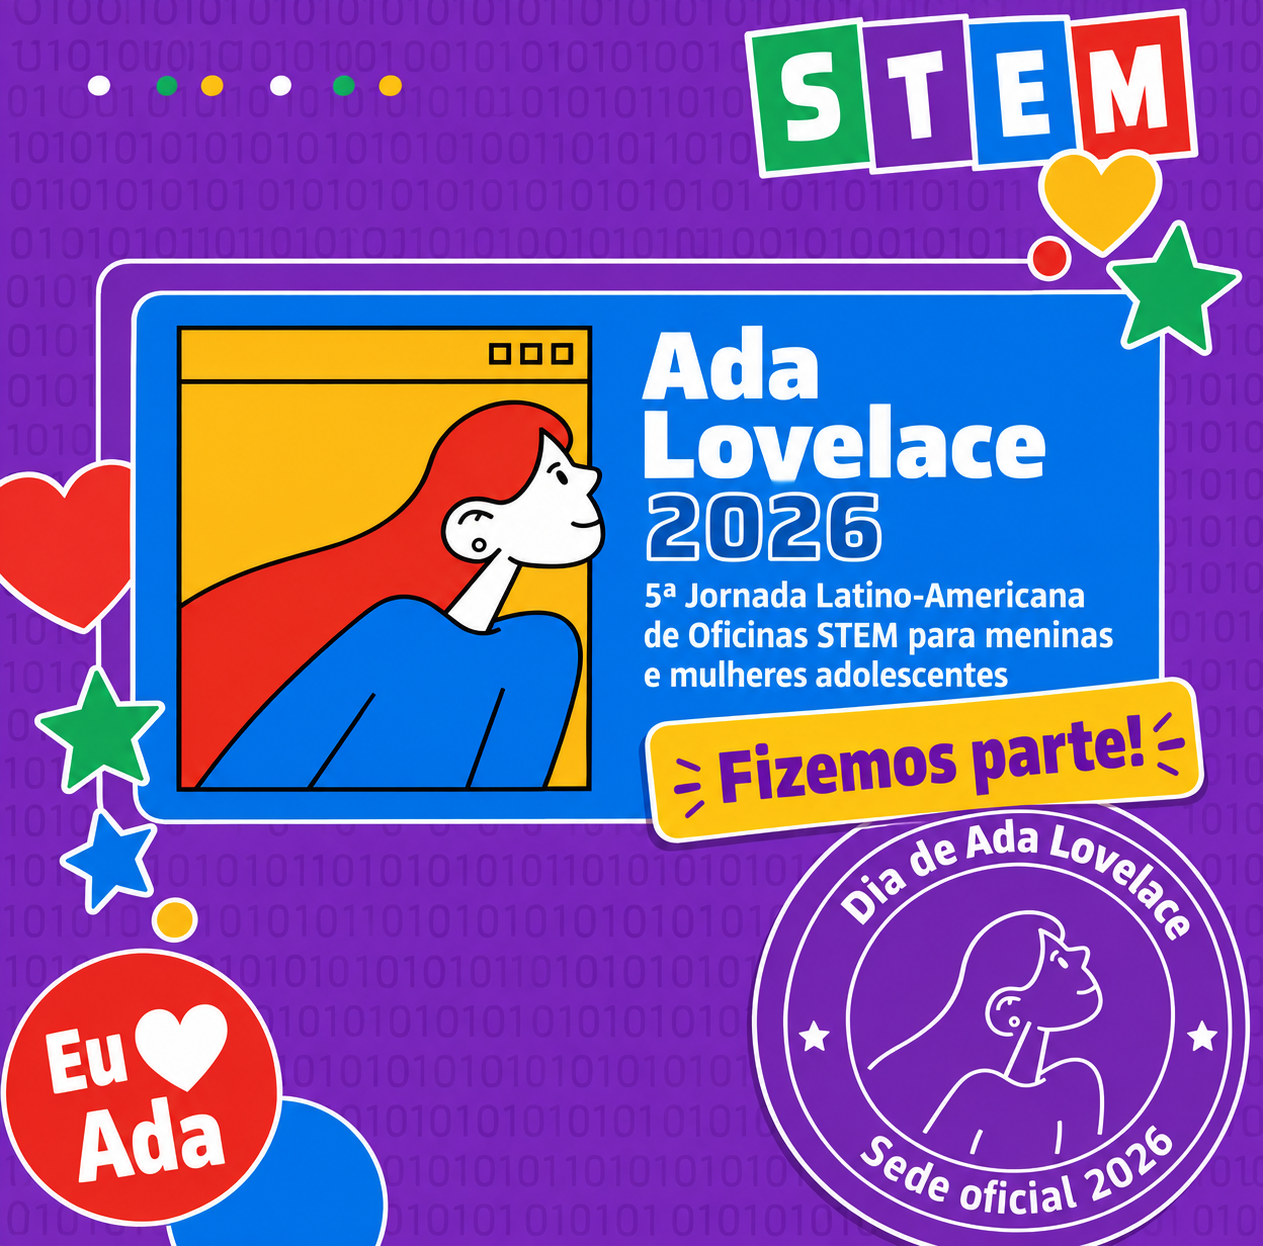
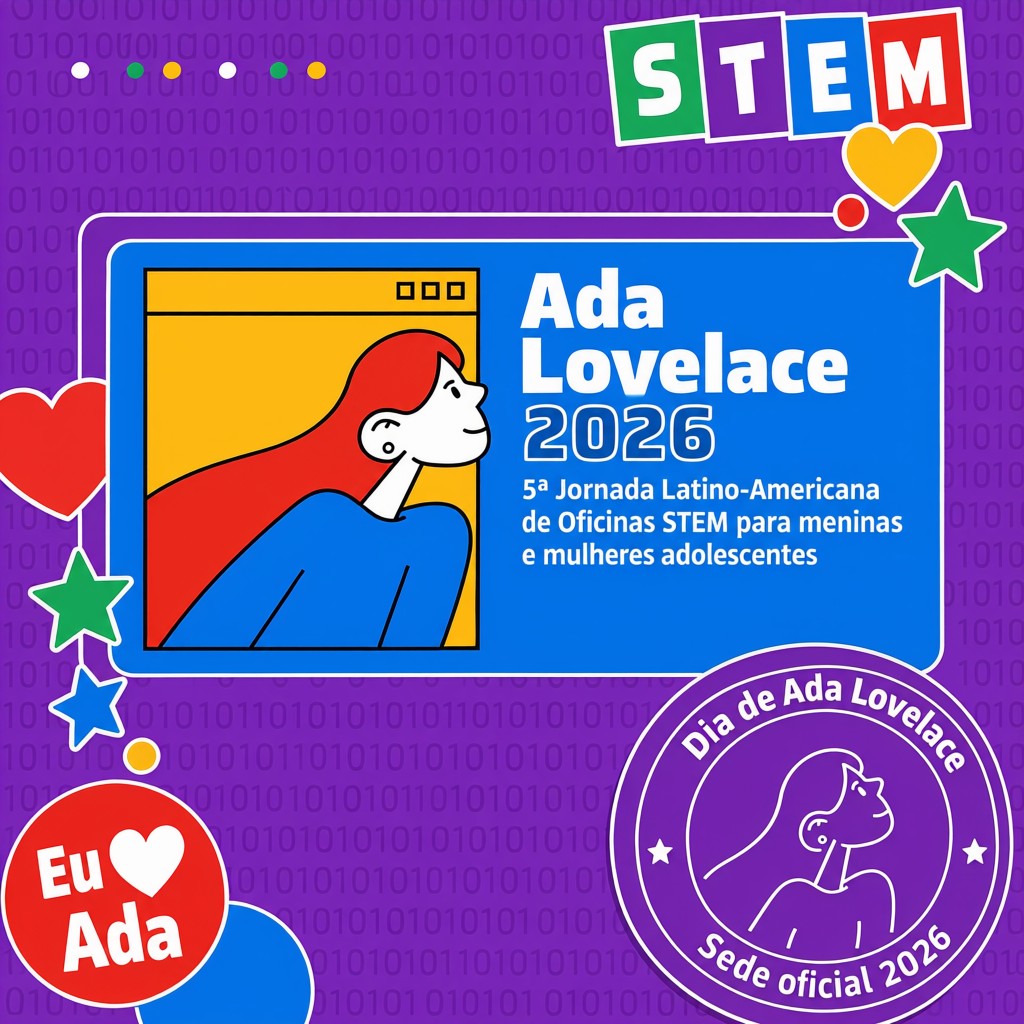
adicionadas fotos no carrossel, mudanças em links

diff --git a/components/config.js b/components/config.js
@@ -62,7 +62,8 @@
       { nome: 'FGV EMAp', img: 'images/logo-fgv.png', url: 'https://emap.fgv.br/' },
       { nome: 'SBMAC', img: 'images/logo-sbmac.png', url: 'https://www.sbmac.org.br/' },
       { nome: 'SEGLABS', img: 'images/logo-seglabs.png', url: 'https://seglabs.io'},
-     // { nome: 'Apoiador 4', img: '', url: '#' }
+      { nome: 'Dassault Systèmes', img: 'images/logo-dessault.png', url: 'https://www.3ds.com/' }
+     // { nome: 'Apoiador tal', img: '', url: '#' }
     ],
 
     organizacao: {
@@ -75,14 +76,18 @@
     },
 
     membros: [
-      { nome: '[Nome Sobrenome]', funcao: 'Coordenação', curso: '[Curso / Departamento]' },
-      { nome: '[Nome Sobrenome]', funcao: 'Oficineira', curso: '[Curso]' },
-      { nome: '[Nome Sobrenome]', funcao: 'Oficineiro', curso: '[Curso]' },
-      { nome: '[Nome Sobrenome]', funcao: 'Comunicação', curso: '[Curso]' },
-      { nome: '[Nome Sobrenome]', funcao: 'Oficineira', curso: '[Curso]' },
-      { nome: '[Nome Sobrenome]', funcao: 'Design', curso: '[Curso]' },
-      { nome: '[Nome Sobrenome]', funcao: 'Oficineiro', curso: '[Curso]' },
-      { nome: '[Nome Sobrenome]', funcao: 'Apoio', curso: '[Curso]' }
+      { nome: 'Grasiele Jorge',   img: 'images/grasi_jorge.jpeg',      funcao: 'Coordenação', curso: 'Professora de matemática, apaixonada por gatos, bike, trilhas e natureza' },
+      { nome: 'Cláudia Aline',    img: 'images/claudia_aline.jpeg',    funcao: 'Coordenação', curso: 'Professora de matemática, ama dançar e conhecer novos sabores' },
+      { nome: 'Maíra Matos',      img: 'images/maira_matos.jpeg',      funcao: 'Professora Apoiadora', curso: '[curso / departamento]' },
+      { nome: 'Noelma Santos',    img: 'images/noelma.jpeg',           funcao: 'Professora Apoiadora', curso: 'Pedagoga, e nas horas vagas aprendo a cuidar de suculentas e orquídeas!' },
+      { nome: 'Camila de Morais', img: 'images/camila_de_morais.jpeg', funcao: 'Professora Apoiadora', curso: 'professora de ciencias e da arte da investigacao ama series policiais e rock n roll' },
+      { nome: 'Leonardo',         img: 'images/leonardo.jpeg',         funcao: 'Professor Apoiador', curso: 'Leonardo, professor de Matemática e fã de comédia' },
+      { nome: 'Clara Yumi',       img: 'images/clara.jpeg',            funcao: 'Monitora e Dev do Site', curso: 'Estudante de matemática computacional e dançarina que ama gatos' },
+      { nome: 'Malu Balbo',       img: 'images/malu.jpeg',             funcao: 'Monitora', curso: 'estudante de ciência e tecnologia que adora filmes' },
+      { nome: 'Ellen Yukie',      img: 'images/ellen.jpeg',            funcao: 'Monitora', curso: 'Estudante do Bacharelado Interdisciplinar de Ciência e Tecnologia, que gosta de quebra-cabeças e jogos online.' },
+      { nome: 'Heloíse Martinez', img: 'images/helo.jpeg',             funcao: 'Monitora', curso: 'Estudante de engenharia de computação e entusiasta de aquarismo e dígitos de pi' },
+      { nome: 'Juliana Sene',     img: 'images/juliana.jpeg',          funcao: 'Monitora', curso: 'Profissional de Finanças, estudante de matemática. Gosto de pintura e micronacionalismo' },
+      { nome: 'Vitor Soares',     img: 'images/vitor_soares.jpeg',     funcao: 'Dev do Site', curso: 'Desenvolvedor, entusiasta de matemática e segurança da informação' }
     ],
 
         // CRÉDITOS DO SITE (rodapé): nome e link do LinkedIn de quem desenvolveu

diff --git a/pages/quem-somos.html b/pages/quem-somos.html
@@ -39,13 +39,12 @@ Em São José dos Campos, esta será a primeira realização da Jornada, tendo c
         <div class="bloco__texto">
           <h2>Nossa participação na Jornada</h2>
           <p>O Ada Lovelace Day: 5ª Jornada Latino-Americana de Oficinas STEM para Meninas é um evento de alcance latino-americano que busca incentivar a participação de meninas nas áreas de Ciência, Tecnologia, Engenharia e Matemática (STEM). Em 2026, a UNIFESP participa como uma das instituições organizadoras, contribuindo para ampliar o acesso, a representatividade e o interesse de meninas pela ciência e pela tecnologia.</p>
-          <div class="botoes"><a class="botao botao--vermelho" data-link="ada" href="#">Conheça a Jornada ↗</a></div>
         </div>
         <div class="bloco__midia"><img src="../images/sede-unifesp.webp" alt="Sede da UNIFESP" style="position: relative; z-index: 20; display: block; width: 100%; height: auto; object-fit: contain;"></div>
       </div>
     </section>
 
-    <carrossel-membros titulo="Nossa equipe" texto="[Frase curta sobre a equipe.]"></carrossel-membros>
+    <carrossel-membros titulo="Nossa equipe" texto="Quem faz o evento acontecer"></carrossel-membros>
 
     <section class="secao secao--roxo secao--binario">
       <div class="container" style="text-align:center">
@@ -53,7 +52,6 @@ Em São José dos Campos, esta será a primeira realização da Jornada, tendo c
         <p class="lead" style="margin-inline:auto">Inscreva sua menina na sede da Unifesp.</p>
         <div class="botoes" style="justify-content:center">
           <a class="botao botao--vermelho botao--grande" href="formulario.html">Inscreva-se</a>
-          <a class="botao botao--branco botao--grande" data-link="ada" href="#">Site oficial da Jornada ↗</a>
         </div>
       </div>
     </section>

diff --git a/index.html b/index.html
@@ -17,11 +17,10 @@
     <section class="hero">
       <div class="container hero__grid">
         <div>
-          <h1>Meninas que descobrem a <span class="marca-texto">ciência e a tecnologia</span> brincando.</h1>
+          <h1>Conheça o Ada Lovelace Day</h1>
           <p class="lead">Uma manhã de oficinas STEM para meninas de 10 a 12 anos, dentro da Jornada Ada Lovelace Day, organizada pela Unifesp.</p>
           <div class="botoes">
             <a class="botao botao--vermelho botao--grande" href="pages/formulario.html">Inscreva-se</a>
-            <a class="botao botao--roxo botao--grande" data-link="ada" href="#">Site oficial da Jornada ↗</a>
           </div>
           <ul class="hero__fatos">
             <li>10 a 12 anos<small>idade das participantes</small></li>
@@ -48,7 +47,6 @@
             <p>Meninas de 10 a 12 anos exploram ciência, tecnologia, engenharia e matemática juntas, com oficinas lúdicas e experimentais.</p>
             <div class="botoes">
               <a class="botao botao--amarelo" href="pages/quem-somos.html">Quem somos</a>
-              <a class="botao botao--vermelho" data-link="ada" href="#">Site oficial ↗</a>
             </div>
           </div>
         <div class="bloco__midia"><img  class="imagem-experimento" src="images/poster-stem.png" alt="Menina realizando um experimento científico"></div>
@@ -119,7 +117,6 @@
         <p class="lead" style="margin-inline:auto">As vagas da sede são limitadas e a inscrição é feita pelo responsável.</p>
         <div class="botoes" style="justify-content:center">
           <a class="botao botao--vermelho botao--grande" href="pages/formulario.html">Inscreva-se</a>
-          <a class="botao botao--branco botao--grande" data-link="ada" href="#">Site oficial da Jornada ↗</a>
         </div>
       </div>
     </section>

diff --git a/components/header.js b/components/header.js
@@ -32,11 +32,13 @@
 
       this.innerHTML =
         '<header class="cabecalho"><div class="container cabecalho__in">' +
-          '<a class="marca" href="' + S.url('index.html') + '">' +
+          '<div class="marca">' +
             S.logo(S.logos.unifespBranco, 'marca__logo') +
-            S.logo(S.logos.adaBranco, 'marca__logo') +
-            '<span class="marca__nome"><strong>' + S.nome + '</strong><small>' + S.subtitulo + '</small></span>' +
-          '</a>' +
+            '<a class="marca" href="' + S.url('index.html') + '">' +
+              '<span class="logo-link marca__logo"><img src="' + S.url(S.logos.adaBranco.img) + '" alt="Ada Lovelace Day"></span>' +
+              '<span class="marca__nome"><strong>' + S.nome + '</strong><small>' + S.subtitulo + '</small></span>' +
+            '</a>' +
+          '</div>' +
           '<button class="menu-toggle" type="button" aria-expanded="false" aria-controls="menu-principal" aria-label="Abrir menu">' + ico.menu + '</button>' +
           '<nav class="menu" id="menu-principal" aria-label="Principal">' +
             '<ul>' + itens +

diff --git a/components/carrossel-membros.js b/components/carrossel-membros.js
@@ -23,8 +23,10 @@
       var texto = this.getAttribute('texto') || '';
       var cards = S.membros.map(function (m, i) {
         var cor = cores[i % cores.length];
-        return '<li class="membro">' +
-          '<div class="imagem-ph imagem-ph--' + cor + ' membro__foto" style="--ratio:4/5" role="img" aria-label="Espaço para foto de ' + m.nome + '">Foto · 4:5<small>retrato</small></div>' +
+        var foto = m.img
+          ? '<img class="membro__foto membro__foto--img" style="--cor: var(--' + cor + ')" src="' + S.url(m.img) + '" alt="Foto de ' + m.nome + '" loading="lazy">'
+          : '<div class="imagem-ph imagem-ph--' + cor + ' membro__foto" style="--ratio:4/5" role="img" aria-label="Espaço para foto de ' + m.nome + '">Foto · 4:5<small>retrato</small></div>';
+        return '<li class="membro">' + foto +
           '<h3>' + m.nome + '</h3><p class="membro__funcao">' + m.funcao + '</p><p class="membro__curso">' + m.curso + '</p></li>';
       }).join('');
 

diff --git a/components/carrossel-membros.css b/components/carrossel-membros.css
@@ -34,6 +34,7 @@
 }
 .membro { flex: 0 0 clamp(210px, 22vw, 250px); scroll-snap-align: start; }
 .membro__foto { box-shadow: 6px 6px 0 var(--cor); margin-bottom: 18px; }
+.membro__foto--img { display: block; width: 100%; aspect-ratio: 4 / 5; object-fit: cover; object-position: center 25%; border-radius: 36px 36px 36px 10px; }
 .membro h3 { font-size: 1.15rem; margin-bottom: .15em; }
 .membro p { margin: 0; font-size: .92rem; }
 .membro__funcao { font-weight: 700; color: var(--roxo); }

diff --git a/pages/mulheres-na-stem.html b/pages/mulheres-na-stem.html
@@ -77,7 +77,6 @@
         <p class="lead" style="margin-inline:auto">Inscreva sua menina na sede da Unifesp.</p>
         <div class="botoes" style="justify-content:center">
           <a class="botao botao--vermelho botao--grande" href="formulario.html">Inscreva-se</a>
-          <a class="botao botao--branco botao--grande" data-link="ada" href="#">Site oficial da Jornada ↗</a>
         </div>
       </div>
     </section>
